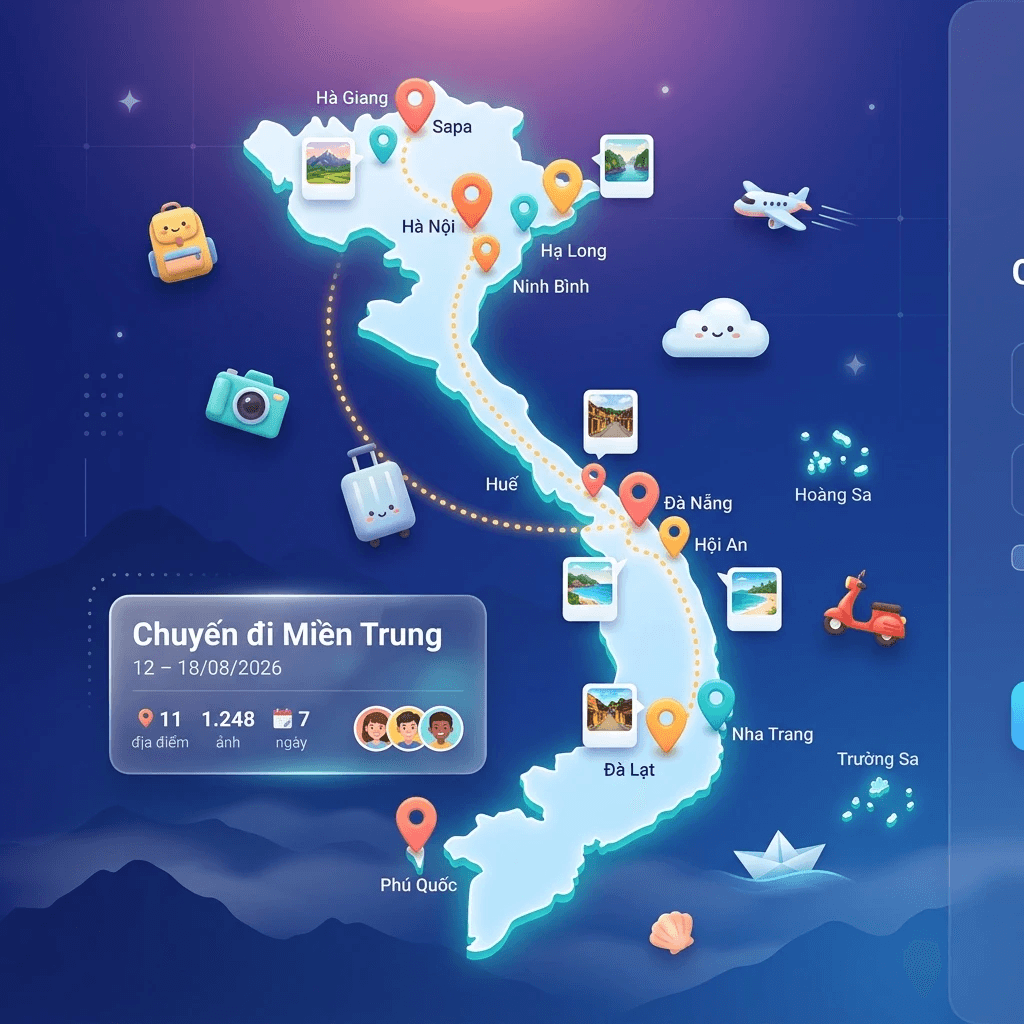
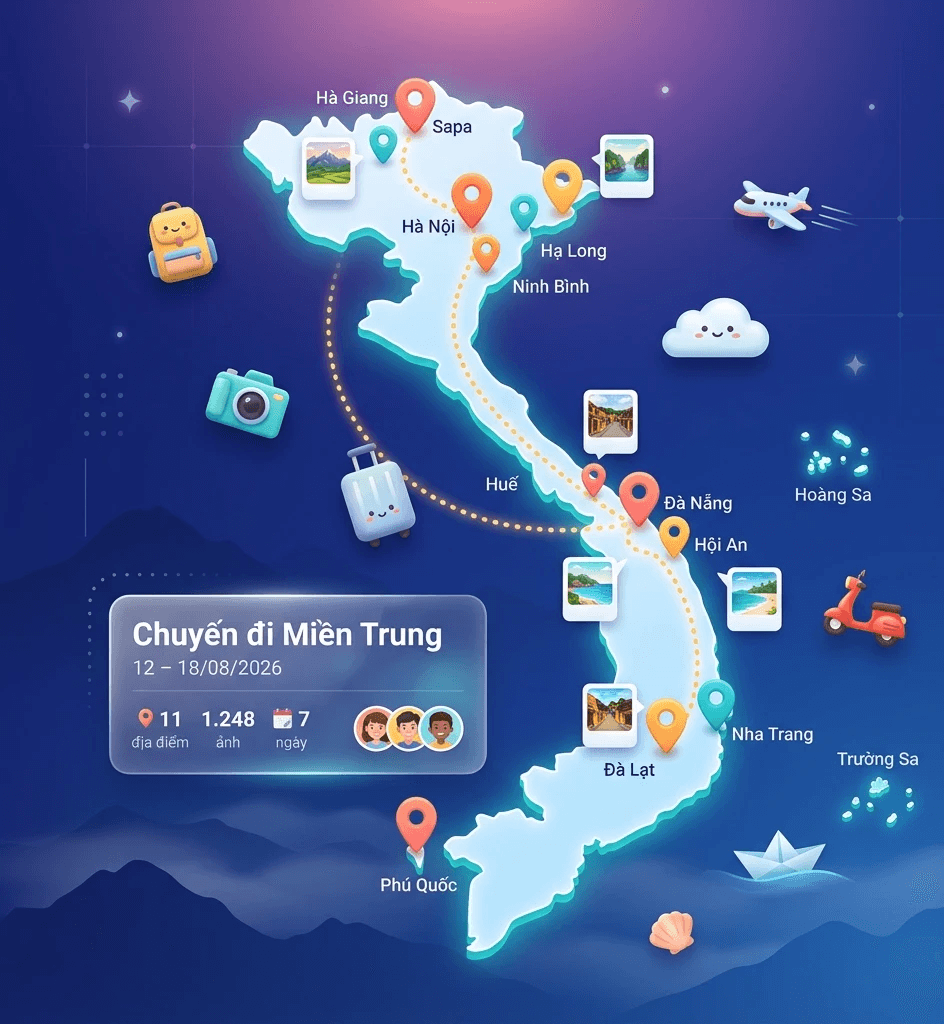
fix: anh hero dang nhap dung anh da cat, khong bi cat/tran, chu day sang phai
Claude-Session: https://claude.ai/code/session_012NfUycCvApZUJwBAkRPtY1

diff --git a/src/components/LoginPage.tsx b/src/components/LoginPage.tsx
@@ -63,6 +63,14 @@ export default function LoginPage({
 
       {/* Left hero panel */}
       <div className="flex h-[220px] lg:h-auto lg:w-3/5 relative overflow-hidden bg-[#1b1646]">
+        {/* Nền: chính ảnh đó phóng lớn + làm mờ, lấp phần thừa khi ảnh không phủ kín panel */}
+        <img
+          src="/images/login-hero.webp"
+          alt=""
+          aria-hidden="true"
+          className="absolute inset-0 w-full h-full object-cover scale-125 blur-2xl"
+        />
+        {/* Ảnh chính: hiển thị trọn vẹn (không cắt Hà Giang / Phú Quốc), mép trái-phải mờ dần vào nền */}
         <picture>
           <source srcSet="/images/login-hero.avif" type="image/avif" />
           <source srcSet="/images/login-hero.webp" type="image/webp" />
@@ -72,8 +80,14 @@ export default function LoginPage({
             aria-hidden="true"
             loading="eager"
             decoding="async"
-            style={{ objectPosition: "center top" }}
-            className="hero-zoom absolute inset-0 w-full h-full object-cover"
+            style={{
+              objectPosition: "center top",
+              WebkitMaskImage:
+                "linear-gradient(to right, transparent 0, #000 6%, #000 94%, transparent 100%)",
+              maskImage:
+                "linear-gradient(to right, transparent 0, #000 6%, #000 94%, transparent 100%)",
+            }}
+            className="hero-zoom absolute inset-0 w-full h-full object-cover lg:object-contain"
           />
         </picture>
         {/* Lớp phủ dưới lên: đậm ở dark, ~50% ở light */}
@@ -109,7 +123,7 @@ export default function LoginPage({
             </span>
           </div>
           {/* Quote */}
-          <div className="max-w-[480px]">
+          <div className="max-w-[480px] self-end">
             <h1
               className="hero-in text-[#FFF3E0] text-2xl lg:text-5xl xl:text-6xl font-extrabold leading-tight tracking-tight lg:mb-6"
               style={{ filter: "drop-shadow(0 2px 12px rgba(17,24,39,0.5))" }}
